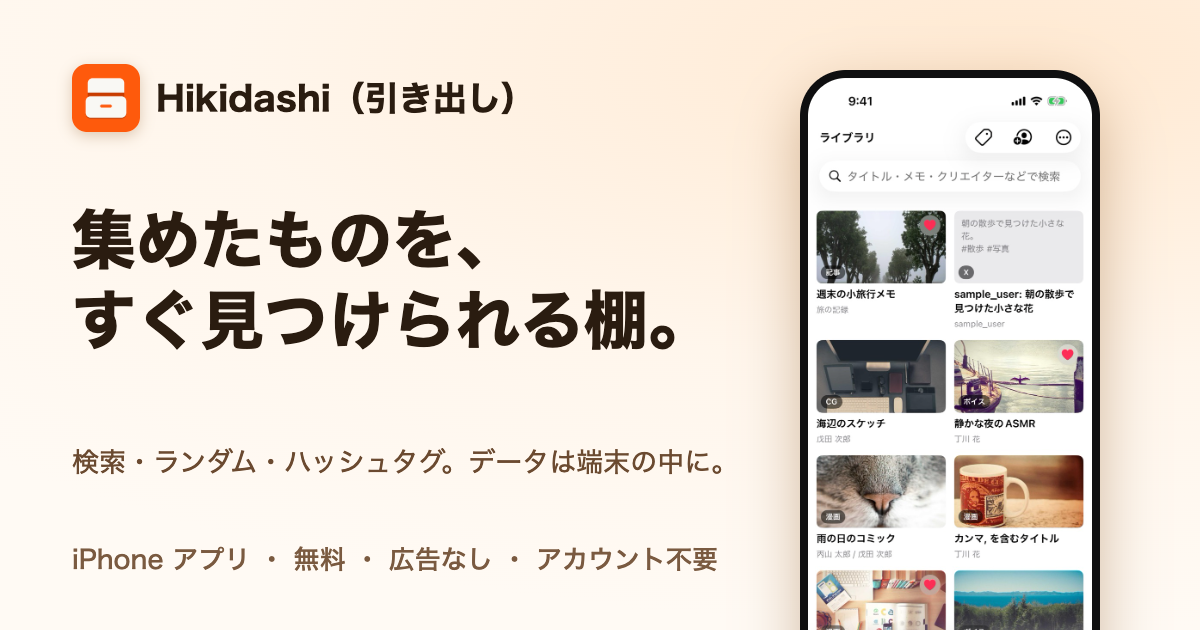
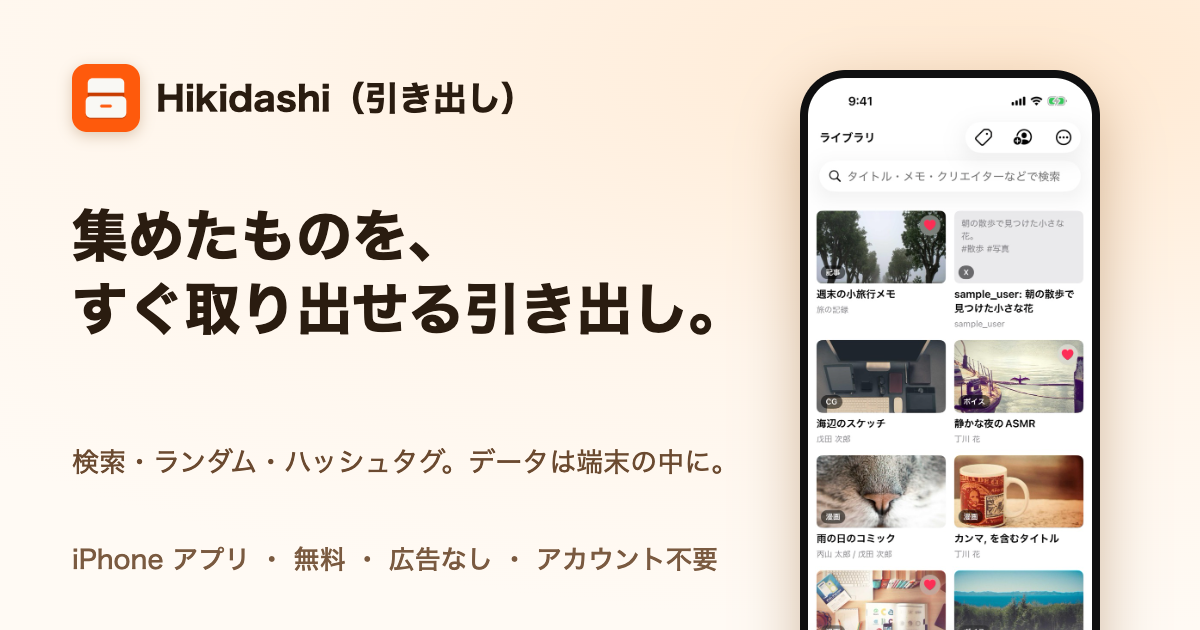
docs: キャッチコピーを「すぐ取り出せる引き出し」に変える

Changed region(s): [[0.0617, 0.3317, 0.6167, 0.573]]

diff --git a/index.html b/index.html
@@ -3,7 +3,7 @@
 <head>
 <meta charset="utf-8">
 <meta name="viewport" content="width=device-width, initial-scale=1, viewport-fit=cover">
-<title>Hikidashi（引き出し）｜集めたものを、すぐ見つけられる棚</title>
+<title>Hikidashi（引き出し）｜集めたものを、すぐ取り出せる引き出し</title>
 <meta name="description" content="記事・動画・投稿・作品を、検索・ランダム・ハッシュタグで見返せる iPhone アプリ。データは端末の中に。CSV で出し入れできます。無料・広告なし・アカウント不要。">
 <meta name="theme-color" content="#fff6ec">
 <meta name="apple-itunes-app" content="app-id=6823911890">
@@ -12,13 +12,13 @@
 <link rel="canonical" href="https://nemog9.github.io/hikidashi-support/">
 <meta property="og:type" content="website">
 <meta property="og:site_name" content="Hikidashi">
-<meta property="og:title" content="Hikidashi（引き出し）｜集めたものを、すぐ見つけられる棚">
+<meta property="og:title" content="Hikidashi（引き出し）｜集めたものを、すぐ取り出せる引き出し">
 <meta property="og:description" content="検索・ランダム・ハッシュタグで見返せる iPhone アプリ。データは端末の中に。無料・広告なし・アカウント不要。">
 <meta property="og:url" content="https://nemog9.github.io/hikidashi-support/">
 <meta property="og:image" content="https://nemog9.github.io/hikidashi-support/assets/og.png">
 <meta property="og:locale" content="ja_JP">
 <meta name="twitter:card" content="summary_large_image">
-<meta name="twitter:title" content="Hikidashi（引き出し）｜集めたものを、すぐ見つけられる棚">
+<meta name="twitter:title" content="Hikidashi（引き出し）｜集めたものを、すぐ取り出せる引き出し">
 <meta name="twitter:description" content="検索・ランダム・ハッシュタグで見返せる iPhone アプリ。データは端末の中に。無料・広告なし・アカウント不要。">
 <meta name="twitter:image" content="https://nemog9.github.io/hikidashi-support/assets/og.png">
 <script>
@@ -101,7 +101,7 @@ footer a{color:var(--sub);text-decoration:none;font-weight:600}
   <div class="wrap">
     <div>
       <span class="eyebrow">iPhone アプリ</span>
-      <h1>集めたものを、<br>すぐ見つけられる棚。</h1>
+      <h1>集めたものを、<br>すぐ取り出せる引き出し。</h1>
       <p class="lead">記事、動画、投稿、作品。あとで見返したいものを、タイトル・URL・クリエイター・サムネイル・メモと一緒に集めて、検索やランダム表示で、いつでも取り出せます。</p>
       <div class="cta">
         <a href="https://apps.apple.com/jp/app/hikidashi-%E5%BC%95%E3%81%8D%E5%87%BA%E3%81%97/id6823911890"><img src="assets/badge.svg" alt="App Store からダウンロード"></a>

diff --git a/guide.md b/guide.md
@@ -7,7 +7,7 @@ permalink: /guide/
 
 # Hikidashi（引き出し）の使い方
 
-集めたものを、すぐ見つけられる棚。
+集めたものを、すぐ取り出せる引き出し。
 
 記事、動画、投稿、作品など、あとで見返したいものを、タイトル・URL・クリエイター・サムネイル・メモと一緒に集めて、素早く探せる iPhone アプリです。データは端末の中にあり、CSV でいつでも書き出し・読み込みができます。
 
